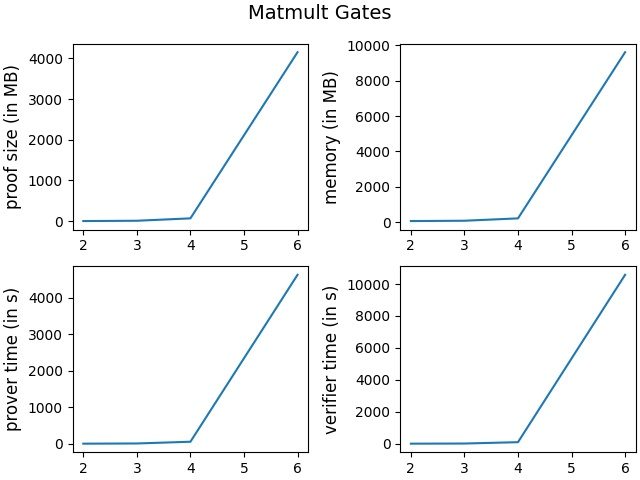
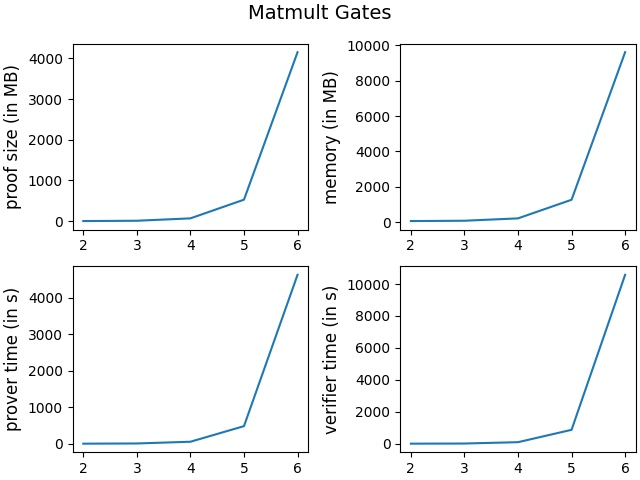
update data and graph

diff --git a/benchmarking.py b/benchmarking.py
@@ -38,8 +38,8 @@ def benchmarking(n_parties):
 
     #Store each run time in an array
     preprocessing_arr = [None]*rep
-    prover_time_arr = [None]*rep
-    verifier_time_arr = [None]*rep
+    prover_time = 0
+    verifier_time = 0
     #initialize size variables
     broadcastc_size = 0
     viewsc_size = 0
@@ -101,7 +101,7 @@ def benchmarking(n_parties):
         epsilon_1 = temp[0]
         epsilon_2 = temp[1]
 
-        start_time = time.process_time()
+        start_prover_time = time.process_time()
         start_memory = get_process_memory()
         #Compute alphas
         temp = circuit.compute_alpha(Circuit, epsilon_1, epsilon_2, w, n_gate, n_parties)
@@ -139,27 +139,24 @@ def benchmarking(n_parties):
         dict_broadcast = r7[2]
 
         #Set run time
-        prover_time = time.process_time() - start_time
-        prover_time_arr[repetition] = prover_time
+        prover_time += time.process_time() - start_prover_time
 
         #Calculate size statistics
         broadcastc_size += COMMIT_BYTES
-        viewsc_size += COMMIT_BYTES*n_parties
+        viewsc_size += COMMIT_BYTES*(n_parties-1)
         # broadcast_size += sum([sum([sum([VALUE_BYTES for v in dict_broadcast[broadcast][i]]) for i in dict_broadcast[broadcast]]) for broadcast in dict_broadcast  if (broadcast!= "round5")]) + sum([VALUE_BYTES for v in dict_broadcast["round5"]])
         broadcast_size += VALUE_BYTES*n_input + VALUE_BYTES*3*n_mul + VALUE_BYTES*2*n_parties + VALUE_BYTES*n_output
-        views_size_PR += SEED_BYTES*n_parties
-        # memory = max(memory,get_process_memory() - start_memory)
-        memory = get_process_memory()
+        views_size_PR += SEED_BYTES*(n_parties-1)
+        memory = max(memory,get_process_memory() - start_memory)
 
         #Start time for verifier
-        start_time = time.process_time()
+        start_verifier_time = time.process_time()
 
         #verifier test
         v.verifier(Circuit, c_info, parties_to_open, views_committed, broadcast1_committed, cm_round3, cm_round5, open_views, dict_rval, dict_broadcast)
 
         #Set time for verifier
-        verifier_time = time.process_time() - start_time
-        verifier_time_arr[repetition] = verifier_time
+        verifier_time += time.process_time() - start_verifier_time
 
         # memory += sys.getsizeof(broadcastc_size) + sys.getsizeof(viewsc_size) + sys.getsizeof(broadcast_size) + sys.getsizeof(views_size_PR)
         # memory = resource.getrusage(resource.RUSAGE_SELF).ru_maxrss
@@ -167,10 +164,7 @@ def benchmarking(n_parties):
         
     # preprocessing_time = sum(preprocessing_arr)
     # print('preprocessing time:', preprocessing_time, 'seconds')
-
-    prover_time_total = sum(prover_time_arr)
-    verifier_time_total = sum(verifier_time_arr)
     # Proof size = wire size + circuit size + alpha size + zeta size
 
-    return prover_time_total, verifier_time_total, proof_size, memory, rep
+    return prover_time, verifier_time, proof_size, memory, rep
 

diff --git a/drawCSV.py b/drawCSV.py
@@ -1,0 +1,77 @@
+import numpy as np
+import matplotlib.pyplot as plt
+import matplotlib.gridspec as gridspec
+import matplotlib.ticker as ticker
+import math
+from benchmarking import benchmarking
+import csv
+import sys
+
+with open(sys.argv[1], newline='') as f:
+    reader = csv.reader(f)
+    data = list(reader)
+
+p = data[0]
+v = data[1]
+s = data[2]
+m = data[3] 
+
+num_parties = range(3, 16)
+formatter = ticker.FuncFormatter(lambda x_val, tick_pos: "$2^{{{:.1f}}}$".format(x_val))
+
+# 2x2 x-y plot
+def plotTable():
+    fig, axs = plt.subplots(2, 2, constrained_layout=True)
+    plotSize(axs[0, 0],num_parties,log2arr(s))
+    plotMemory(axs[0, 1],num_parties,log2arr(m))
+    plotPTime(axs[1, 0],num_parties,log2arr(p))
+    plotVTime(axs[1, 1],num_parties,log2arr(v))
+    plt.savefig('graph/drawP3to15_64_.jpg')
+    #  plt.show()
+
+
+def plotSize(ax, x, y):
+    #ax.plot(x, y, label = 'proof size')
+    #ax.plot(x, r, label = '# repetitions')
+    ax.plot(x, y)
+    ax.yaxis.set_major_formatter(formatter)
+    ax.set_xlabel('number of parties', fontsize=12)
+    ax.set_ylabel('proof size (in MB)', fontsize=12)
+    ax.set_title('Proof Size', fontsize=14)
+    #ax.legend()
+
+
+def plotMemory(ax, x, y):
+    ax.plot(x, y)
+    ax.yaxis.set_major_formatter(formatter)
+    ax.set_xlabel('number of parties', fontsize=12)
+    ax.set_ylabel('memory usage (in MB)', fontsize=12)
+    ax.set_title('Memory Usage', fontsize=14)
+
+    
+def plotPTime(ax, x, y):
+    ax.plot(x, y)
+    ax.yaxis.set_major_formatter(formatter)
+    ax.set_xlabel('number of parties', fontsize=12)
+    ax.set_ylabel('prover time (in s)', fontsize=12)
+    ax.set_title('Prover Time', fontsize=14)
+
+
+def plotVTime(ax, x, y):
+    ax.plot(x, y)
+    ax.yaxis.set_major_formatter(formatter)
+    ax.set_xlabel('number of parties', fontsize=12)
+    ax.set_ylabel('verifier time (in s)', fontsize=12)
+    ax.set_title('Verifier Time', fontsize=14)
+
+   
+# other methods
+def log2arr(arr):
+    ret = []
+    for i in arr:
+        ret.append(math.log(float(i), 2))
+    return ret
+
+
+plotTable()
+

diff --git a/drawCircuits.py b/drawCircuits.py
@@ -5,11 +5,11 @@ import math
 from benchmarking import benchmarking
 
 
-labels = [2, 3, 4, 6]
-p = [0.723,6.208,53.457,4624.506]
-v = [1.255,10.205,94.364,10579.007]
-s = [1.57,9.308,68.213,4153.666]
-m = [55.235,73.748,207.831,9610.92]
+labels = [2, 3, 4, 5, 6]
+p = [0.723,6.208,53.457,480.675,4624.506]
+v = [1.255,10.205,94.364,868.456,10579.007]
+s = [1.57,9.308,68.213,527.478,4153.666]
+m = [55.235,73.748,207.831,1260.564,9610.92]
 
 """
 num_parties = 10
